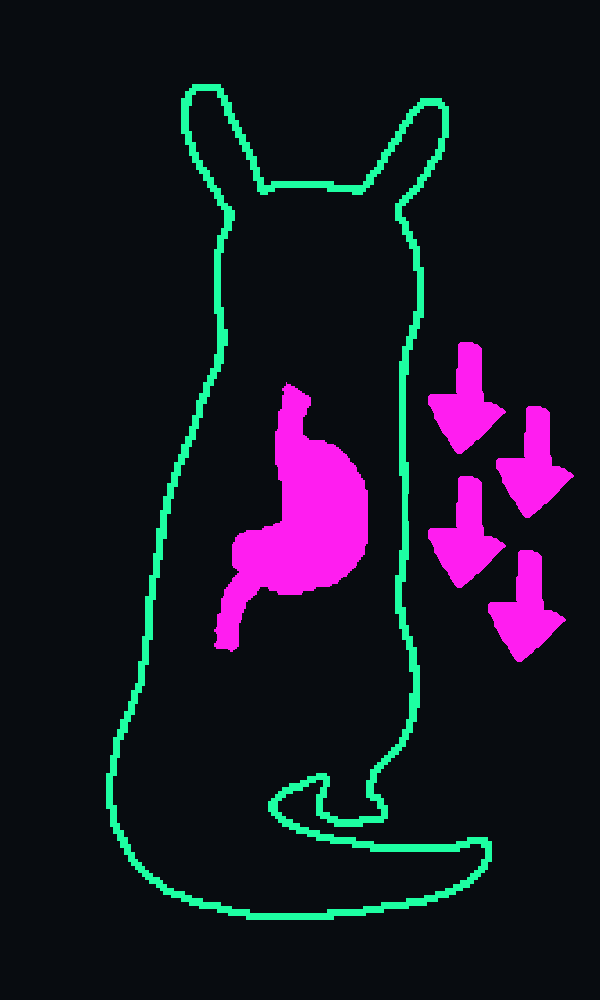
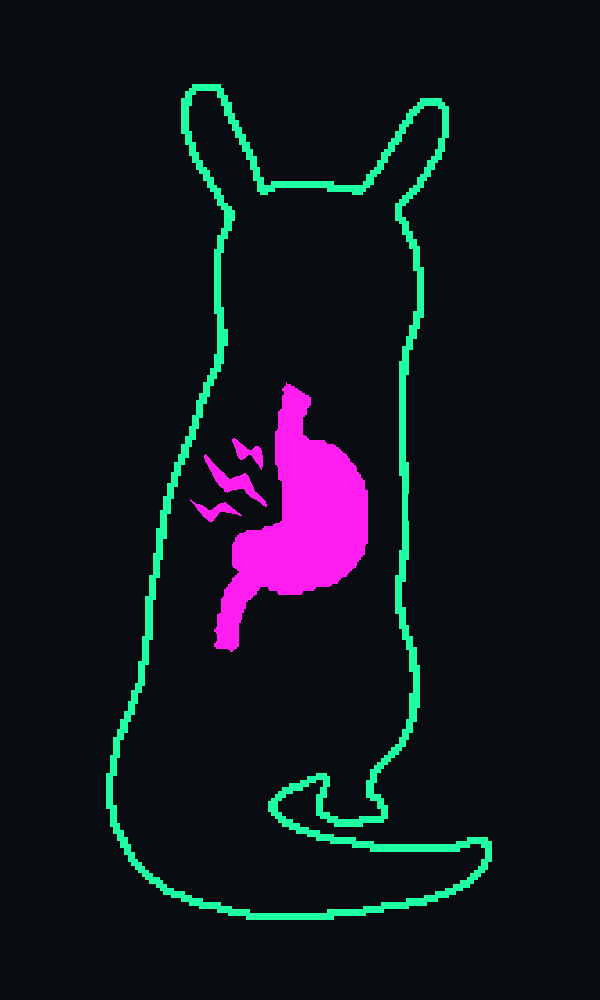
增加了我肚子痛的叠层效果,提升了持续轮回数,效果了吃肉时的眩晕时间

Changed region(s): [[0.72, 0.341, 0.96, 0.682], [0.33, 0.434, 0.45, 0.527], [0.42, 0.496, 0.45, 0.527]]

diff --git a/BuildInBuff/Negative/StomachAche.cs b/BuildInBuff/Negative/StomachAche.cs
@@ -48,7 +48,7 @@ namespace HotDogGains.Negative
                 {
                     c.EmitDelegate<Action<Player>>((self) =>
                     {
-                        self.Stun(80);
+                        self.Stun(20*StomachAcheID.GetBuffData().StackLayer);
                     });
                     c.Emit(OpCodes.Ldarg_0);
                 }
@@ -62,7 +62,7 @@ namespace HotDogGains.Negative
         private static void Player_ObjectEaten(On.Player.orig_ObjectEaten orig, Player self, IPlayerEdible edible)
         {
             StomachAcheBuff.Instance.TriggerSelf(true);
-            self.Stun(80);
+            self.Stun(80*StomachAcheID.GetBuffData().StackLayer);
             orig.Invoke(self, edible);
         }
 
